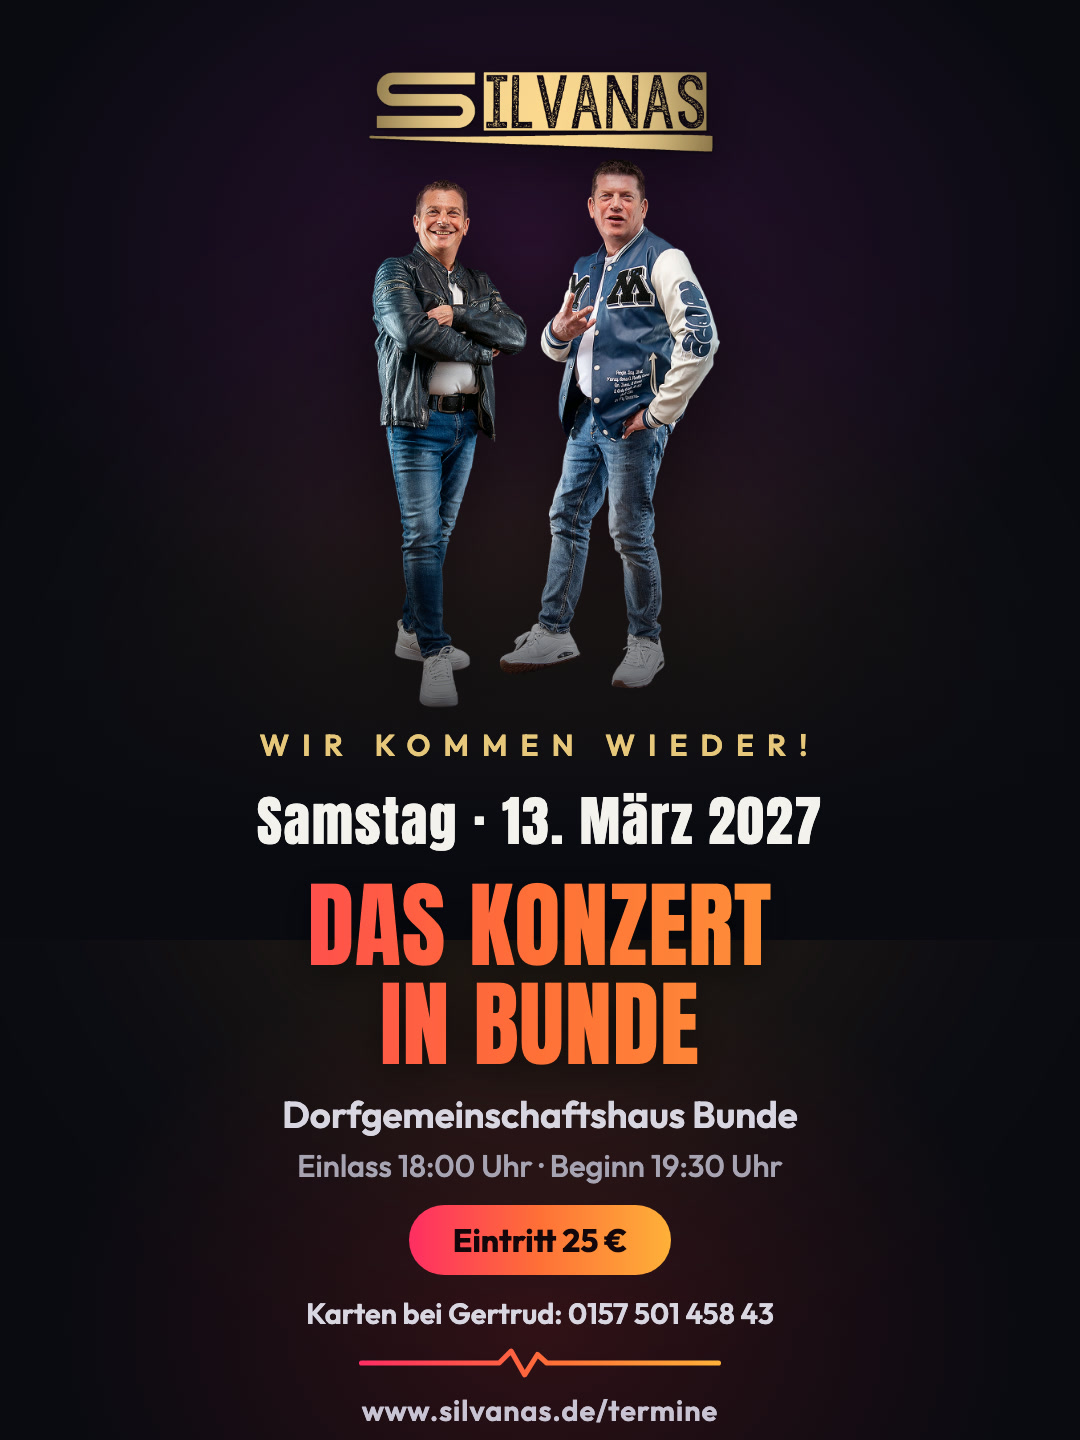
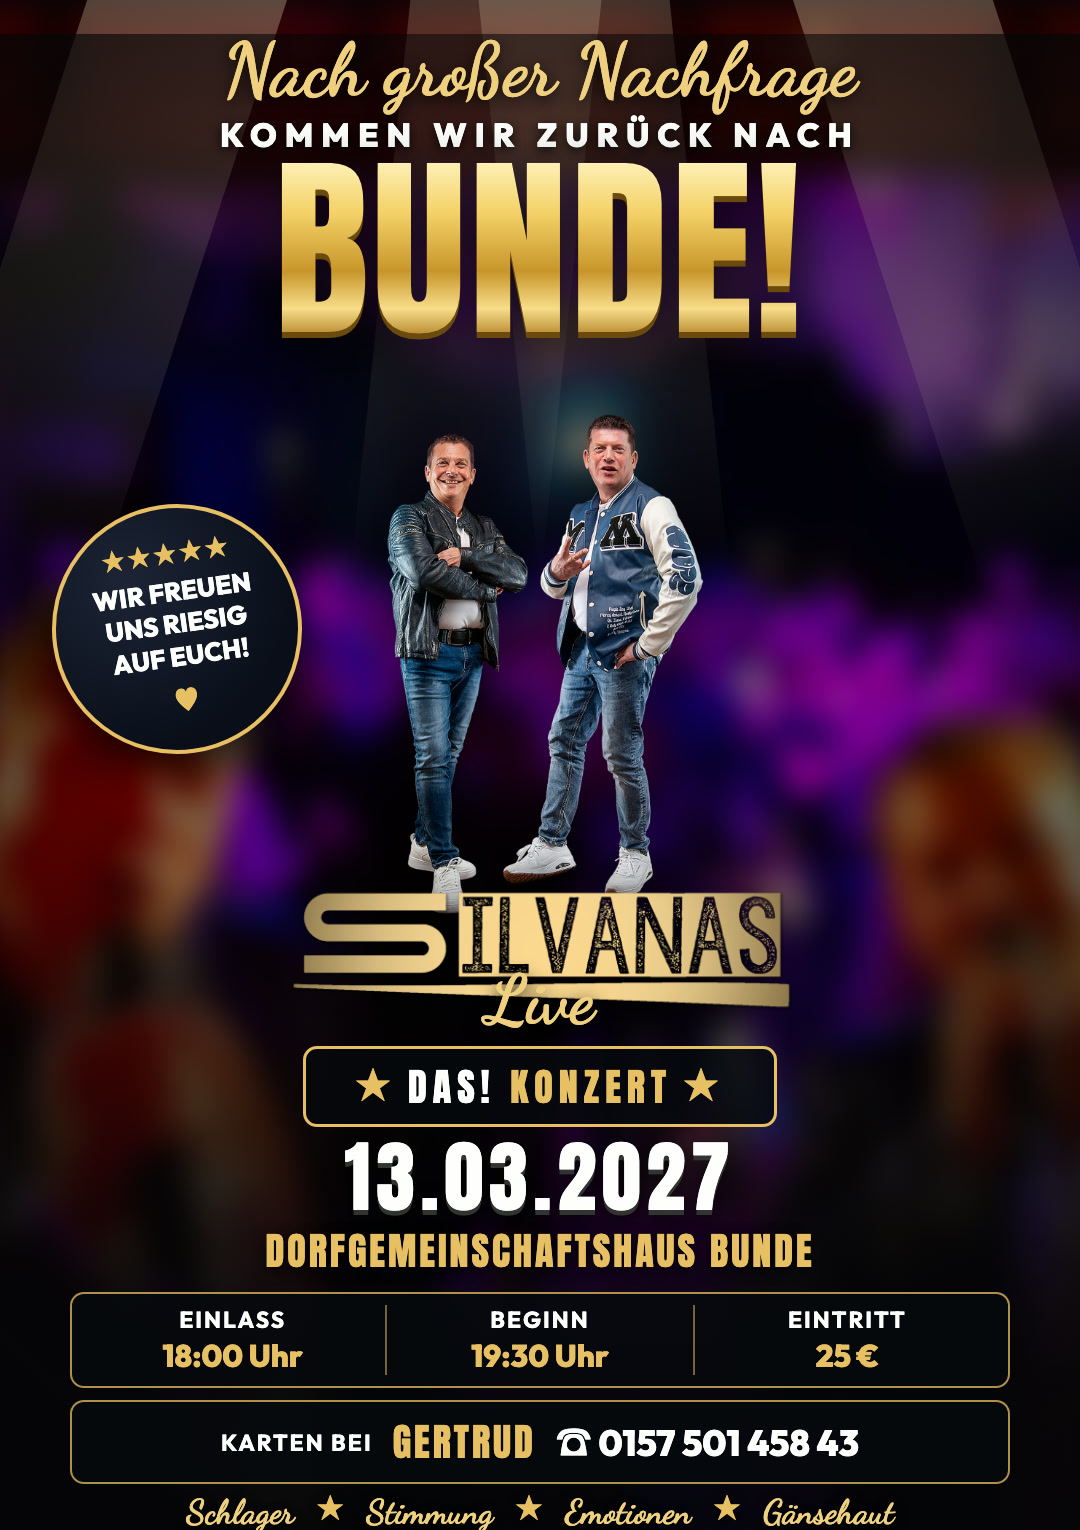
Website-Update: Bunde-2027-Flyer im Original-Stil + 25 Jahre Bühnenerfahrung

diff --git a/index.html b/index.html
@@ -454,7 +454,7 @@ footer{border-top:1px solid var(--line);padding:60px 0 40px;position:relative;z-
       </div>
       <div class="hero-badges">
         <span><i></i>Zwei Stimmen, ein Beat</span>
-        <span><i></i>15+ Jahre Bühne</span>
+        <span><i></i>25+ Jahre Bühne</span>
         <span><i></i>Von Ostfriesland bis Tirol</span>
       </div>
     </div>
@@ -525,7 +525,7 @@ footer{border-top:1px solid var(--line);padding:60px 0 40px;position:relative;z-
       <div class="about-txt reveal d1">
         <span class="kicker">Das sind wir</span>
         <h2>Zwei Cousins.<br>Eine Bühne.<br><span style="background:var(--grad);-webkit-background-clip:text;background-clip:text;color:transparent">Ein Sound.</span></h2>
-        <p>Cousins, beste Freunde, Bühnenpartner: André und Friedhelm stehen seit über 15 Jahren gemeinsam auf der Bühne – und klingen heute frischer als je zuvor. Ihr Rezept: <b>Schlagergefühl trifft Beats, die sofort in die Beine gehen.</b></p>
+        <p>Cousins, beste Freunde, Bühnenpartner: André und Friedhelm stehen seit über 25 Jahren gemeinsam auf der Bühne – und klingen heute frischer als je zuvor. Ihr Rezept: <b>Schlagergefühl trifft Beats, die sofort in die Beine gehen.</b></p>
         <p>Live gibt es bei den Silvanas keine Show von der Stange: Die beiden singen nicht für euch – <b>sie feiern mit euch.</b> Nah am Publikum, mitten im Saal, mit einem Programm, das Oma und Enkelin auf dieselbe Tanzfläche holt. Wer einmal dabei war, kommt wieder.</p>
         <div class="quote">„Nur wer Herz hat, kann auch mit Herz Musik machen."</div>
         <a class="btn btn-ghost" href="#booking">Silvanas kennenlernen</a>
